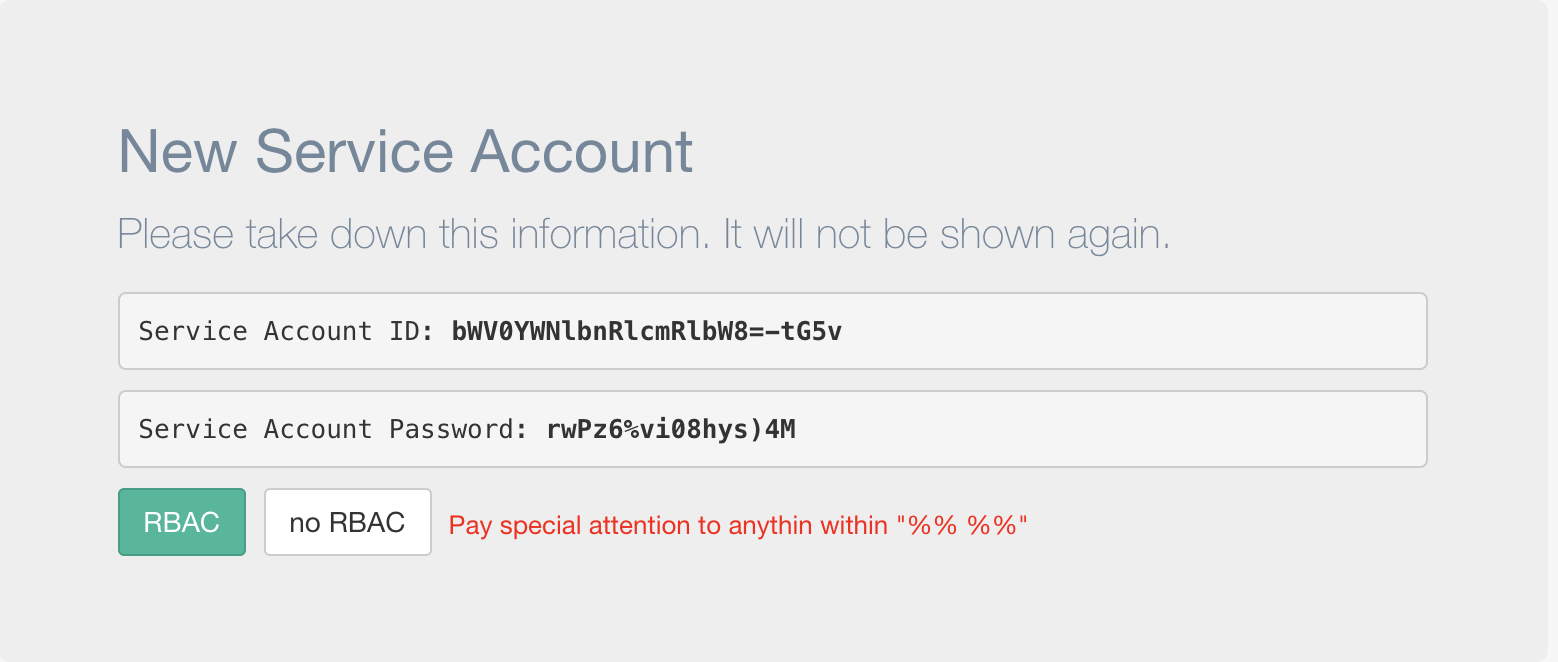
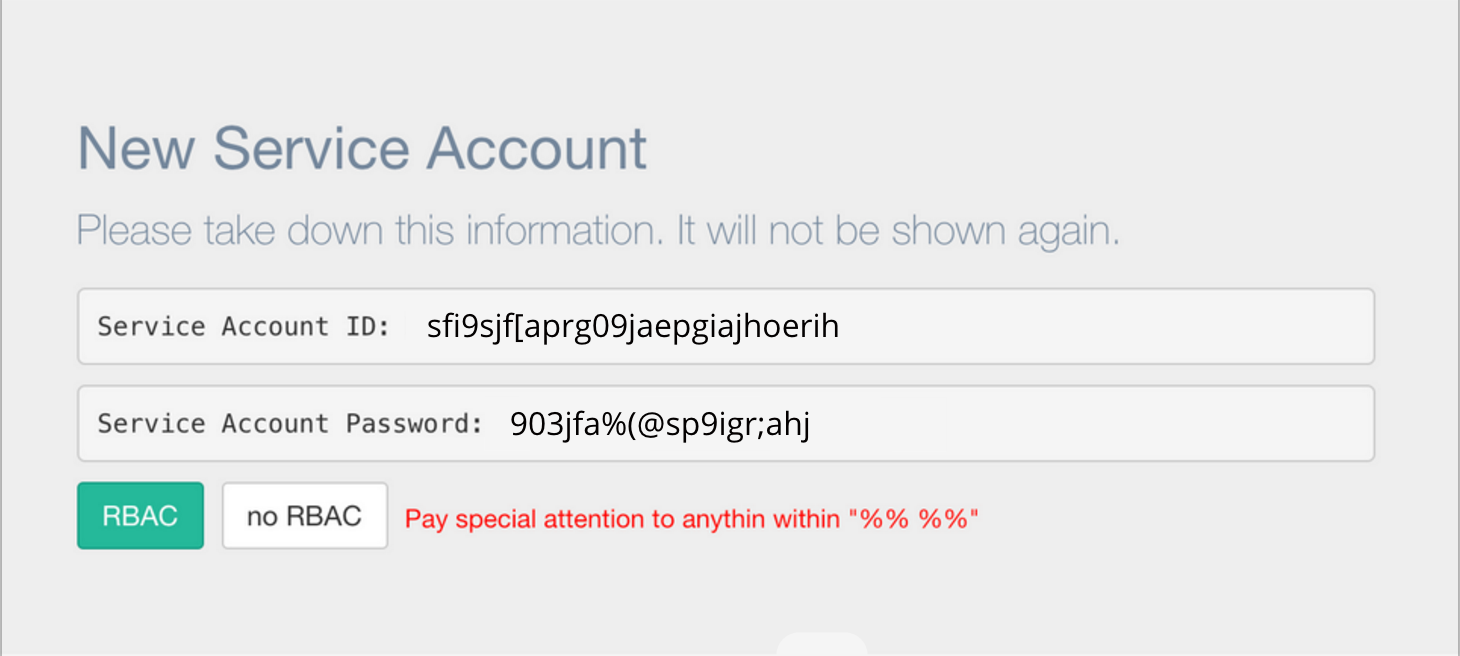
add to documentation

diff --git a/security.md b/security.md
@@ -1,7 +1,6 @@
 # Security
 
 Metacenter keeps a high degree of security for all customer data. 
-From TLS-encrypted TCP to at-rest-encryption to automated data retention periods.
 
 ## Information Security & Retention
 All data within Metacenter uses symmetric encryption at rest (AES-256). 
@@ -20,17 +19,20 @@ All communications are encrypted end-to-end with a TLS-encrypted TCP connection.
 
 ## Authentication
 ### Users
-Upon successful authentication to Metacenter, a time-limited token is provided to each browser via session cookie.
-Re-authentication is required once the token is expired.
+Upon successful authentication to Metacenter, users are authenticated for up to 24 hours.
 
 <b style="color:red">Deletion</b> of a User will immediately remove access to Metacenter.
 
 ### Agents
 Agents use JWT (JSON Web Tokens) for authentication to Metacenter.
 Refresh Tokens allow Service Accounts to receive a new token.
-Tokens expire on a rotating 24 hour period. 
+Tokens expire on a short rotating interval.
 
 <b style="color:red">Deletion</b> of a Service Account will immediately remove access to Metacenter.
 
+
 ## Requests
-We take security seriously, every request to Metacenter is validated against both the token and user identity.
+Every request to Metacenter is validated against both a token and an identity. 
+A token alone, even a valid one will not allow requests to data without a valid user.
+
+

diff --git a/serviceaccount.md b/serviceaccount.md
@@ -1,0 +1,49 @@
+# Service Accounts
+
+Service Accounts allow agents authentication to Metacenter. They are system level identities with
+limited access.
+
+Authentication is performed via JWT (JSON Web Token). A standard, secure authentication protocol. 
+
+For security, service accounts can be created or deleted at any time and have no direct association to a given Kubernetes cluster.
+
+## Creating a Service Account
+
+Look for the settings icon (<span class="fa fa-cog"></span>) in the lower left-hand corner of the screen. 
+
+<img src="_media/mainpage.png" width="400">
+
+Once on the Settings Page, Click (<span class="fa fa-plus"></span>) next to Service Account.
+
+A "New Service Account" window will appear with Account details.
+
+Both `RBAC` and `no RBAC` configs are provided.
+
+
+## Updating an existing agent with a new Service Account
+
+In the agent config, a Kubernetes secret exists.
+
+```
+apiVersion: v1
+kind: Secret
+metadata:
+  name: mcsecret
+  namespace: metacenter
+type: Opaque
+stringData:
+  META_SERVICE: %%SERVICE_ACCOUNT_ID%%
+  META_PASSWORD: %%SERVICE_ACCOUNT_PASSWORD%%
+```
+
+Once a new service account is created -
+
+Put the `Service Account ID` in place of `%%SERVICE_ACCOUNT_ID%%`
+
+and `Service Account Password` in place of `%%SERVICE_ACCOUNT_PASSWORD%%`
+
+<img src="_media/add_service_account.png" width="600">
+
+Then execute:
+
+`kubectl apply -f mc_deploy.yaml`

diff --git a/install.md b/install.md
@@ -1,4 +1,4 @@
-If you don't already have an account, head over to [Account Signup](https://console.metacenter.io/login#signup)
+If you don't already have an account, head over to [Account Signup](https://metacenter.io/login#signup)
 
 
 # Install
@@ -11,7 +11,7 @@ The agent runs as a Kubernetes Cronjob, executed every 15 minutes by default.
 
 
 ## Requirements
-**Metrics Server** - metrics server must be installed. Generally metrics server comes by default in any cluster running version 1.8+.
+**[Metrics Server](https://github.com/kubernetes/kubernetes/tree/master/cluster/addons/metrics-server)** - Generally metrics server comes by default in any cluster running version 1.8+.
 
 **Resource Requirements**
     - 120MB Memory
@@ -34,7 +34,7 @@ Both `RBAC` and `no RBAC` configs are provided.
 
 <img src="_media/add_service_account.png" width="600">
 
-**Pay special attention to anythin within "%% %%"**
+**Pay special attention to anything within "%% %%"**
 
 In particular:
 ```

diff --git a/agent.md b/agent.md
@@ -1,6 +1,7 @@
 # Agent
 
-The Agent supplies Metacenter with the data from each Kubernetes cluster.
+The Agent supplies Metacenter with metadata from each Kubernetes cluster.
+
 To get started quickly, checkout the [Install Guide](install.md)
 
 For detailed information about the agent, keep reading.
@@ -61,9 +62,9 @@ This option will effect the accuracy of Metacenter cost analysis.
 ```
 ...
 - name: CLUSTER_NAME          # K8s Cluster Name, used if not detected
-  value: '<cluster_name>'
+  value: '<cluster_name>'     # Ex metacenter-cluster
 - name: REGION_CODE           # region code for Cloud Provider
-  value: "<region_code>"
+  value: "<region_code>"      # Ex us-east-1
 - name: INSTANCE_TENANCY      # For AWS, Shared or Dedicated
   value: "Shared"
 - name: RESERVED_OR_ONDEMAND  # For AWS, Reserved or OnDemand

diff --git a/_sidebar.md b/_sidebar.md
@@ -2,10 +2,11 @@
 
 - Getting started
   - [<span class="fa fa-caret-right">  Install</span>](install.md)
-  - [<span class="fa fa-caret-right">  Agent</span>](agent.md)
 
+- [**Agent**](agent.md)
+
+- [**Service Accounts**](serviceaccount.md)
 
 - [**Security**](security.md)
-
 
 - [**Support**](support.md)
